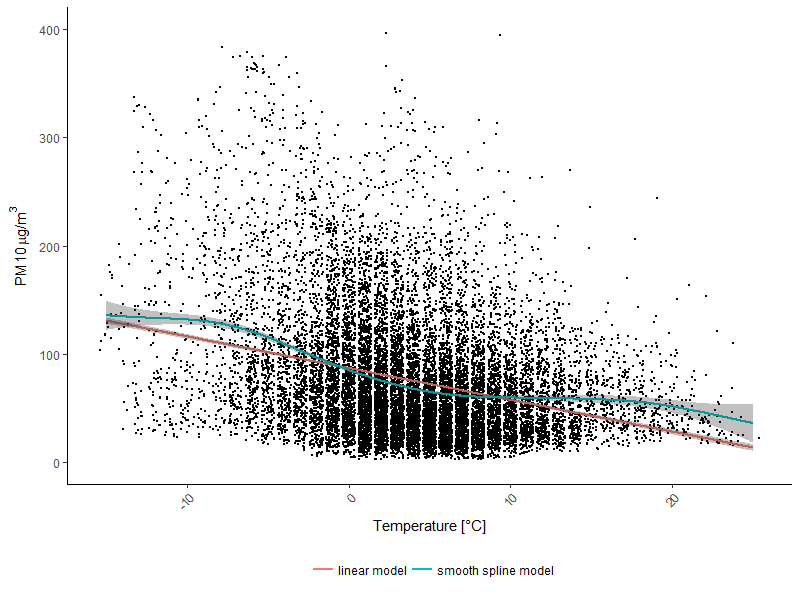
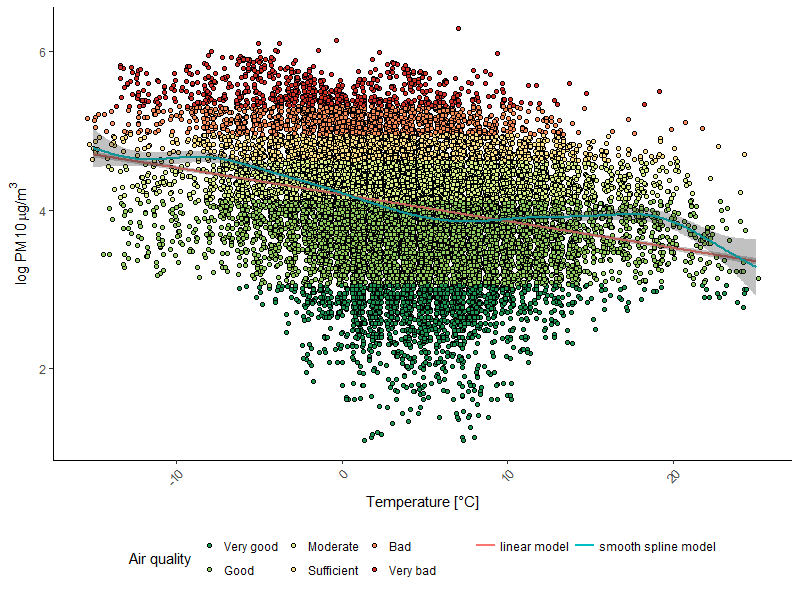
1) added PM10 over weekdays 2) added PM10 over hours 3) plots changed into log PM10

diff --git a/Readme.md b/Readme.md
@@ -2,21 +2,21 @@
 
 ## Table of context
 
-[Introduction](#introduction)  
-[Data sources](#data-sources)  
-[Data exploration](#data-exploration)  
-  [PM 10 distribution](#pm-10-distribution)  
-  [Temperature](#temperature)  
-  [Wind speed](#wind-speed)  
-  [Humidity](#humidity)  
-  [Pressure](#pressure)  
-  [Precipitation](#precipitation)  
-  [Feels like temperature](#feels-like-temperature)  
-  [Cloudiness](#cloudiness)  
-  [Wind direction](#wind-direction)  
-[PM10 modelling](#pm10-modelling)  
-[Air pollution modelling](#air-pollution-modelling)  
-[What's next?](#whats-next)  
+* [Introduction](#introduction)  
+* [Data sources](#data-sources)  
+* [Data exploration](#data-exploration)  
+  * [PM 10 distribution](#pm-10-distribution)  
+  * [Temperature](#temperature)  
+  * [Wind speed](#wind-speed)  
+  * [Humidity](#humidity)  
+  * [Pressure](#pressure)  
+  * [Precipitation](#precipitation)  
+  * [Feels like temperature](#feels-like-temperature)  
+  * [Cloudiness](#cloudiness)  
+  * [Wind direction](#wind-direction)  
+* [PM10 modelling](#pm10-modelling)  
+* [Air pollution modelling](#air-pollution-modelling)  
+* [What's next?](#whats-next)  
 
 ## Introduction
 
@@ -43,23 +43,33 @@ Available weather data included:
 #### PM 10 distribution
 
 For a start let's plot histogram for PM10. As we know PM10 can obtain any value greater than zero and as we can see in the picture below, distribution is skeewed in comparison to normal distribution with the same mean and standard deviation.
+
 ![PM10 histogram](plots/FullDist.png)
 
-As it is easier to work with normal distribution, we can logarithm the data and, as a result obtain almost perfect normal distribution. So, from now I will focus only on logarithm PM10 data.
+As it is easier to work with normal distribution, we can logarithm the data and, as a result obtain almost perfect normal distribution. So, from now we will focus only on PM10  logarithm data.
 
 ![Log PM10 histogram](plots/FullLogDist.png)
 
-Next let's see logarithm PM10 over months. As it's hard to think about logarithm PM10 exact values I've painted data according to Polish air pollution norms. We can clearly see that smog is a problem only in cold months - from October to April. 
+Next let's see PM10 logarithm over months. As it's hard to think about PM10 logarithm exact values I've painted data according to the Polish air pollution norms. We can clearly see that smog is a problem only in cold months - from October to April. 
+
 ![PM10 over months](plots/FullMonthly.png)
 
-In my opinion we can obtain better results if we exclude summer months from the analysis. Of course in the summer we have higher temperatures, but other predictors won't vary as much in comparison to winter months. Also as there is no smog in summer, nobody will be interested in the model results for these months. Just for ensure we need to check the distribution of logarithm PM10 after summer exclusion. As we can see below it's moved into right now, but still pretty close to normal.
+In my opinion we can obtain better results if we exclude summer months from the analysis. Of course in the summer we have higher temperatures, but other predictors won't vary as much in comparison to winter months. Also as there is no smog in summer, nobody will be interested in the model results for these months. Just for ensure we need to check the distribution of PM10 logarithm  after summer exclusion. As we can see below it's moved into right now, but still pretty close to normal.
 
 ![Log PM10 histogram summer exclusion](plots/WinterDist.png)
+
+Finally let's take a look at the differences in PM10 logarithm data during the day and on weekdays. In the picture below, boxplots are shown for each weekday. Also median value is marked as white line and values are displayed. We can see that Sunday 's smog is clearly lower than other days. I'm little surprised that Saturday's smog is not in lower boundary, but is in one of the highest levels.
+
+![Log PM10 boxplots over weekdays](plots/WeekdayDist.png)
+
+Last one is distribution of PM10 logarithm over hours. The blue line is a smooth spline and we can read from it few things. First smog is increasing durning night - it's connected to lower temperatures durning nigth and coal-heating. Around 4-5 AM we can see little decrease in smog, what is probably connected to furnaces expiration, as the oldest (and worst due to air pollution) ones have no automatic refill. Next is morning increase, probably connected to peak traffic, then again decrease and last increase in the evening connected with evening peak traffic. There is no visible gap between evening peak and night heating, so evening traffic impact on smog remains in the sphere of guesses.
+
+![Log PM10 over hours](plots/HoursDist.png)
 
 ###### Summary
 
 In conclusion, we made two assumptions for next chapters:
-* we use logarithm PM 10 instead of pure values
+* we use PM10 logarithm instead of pure values
 * from May to September data were excluded
 
 #### Temperature
